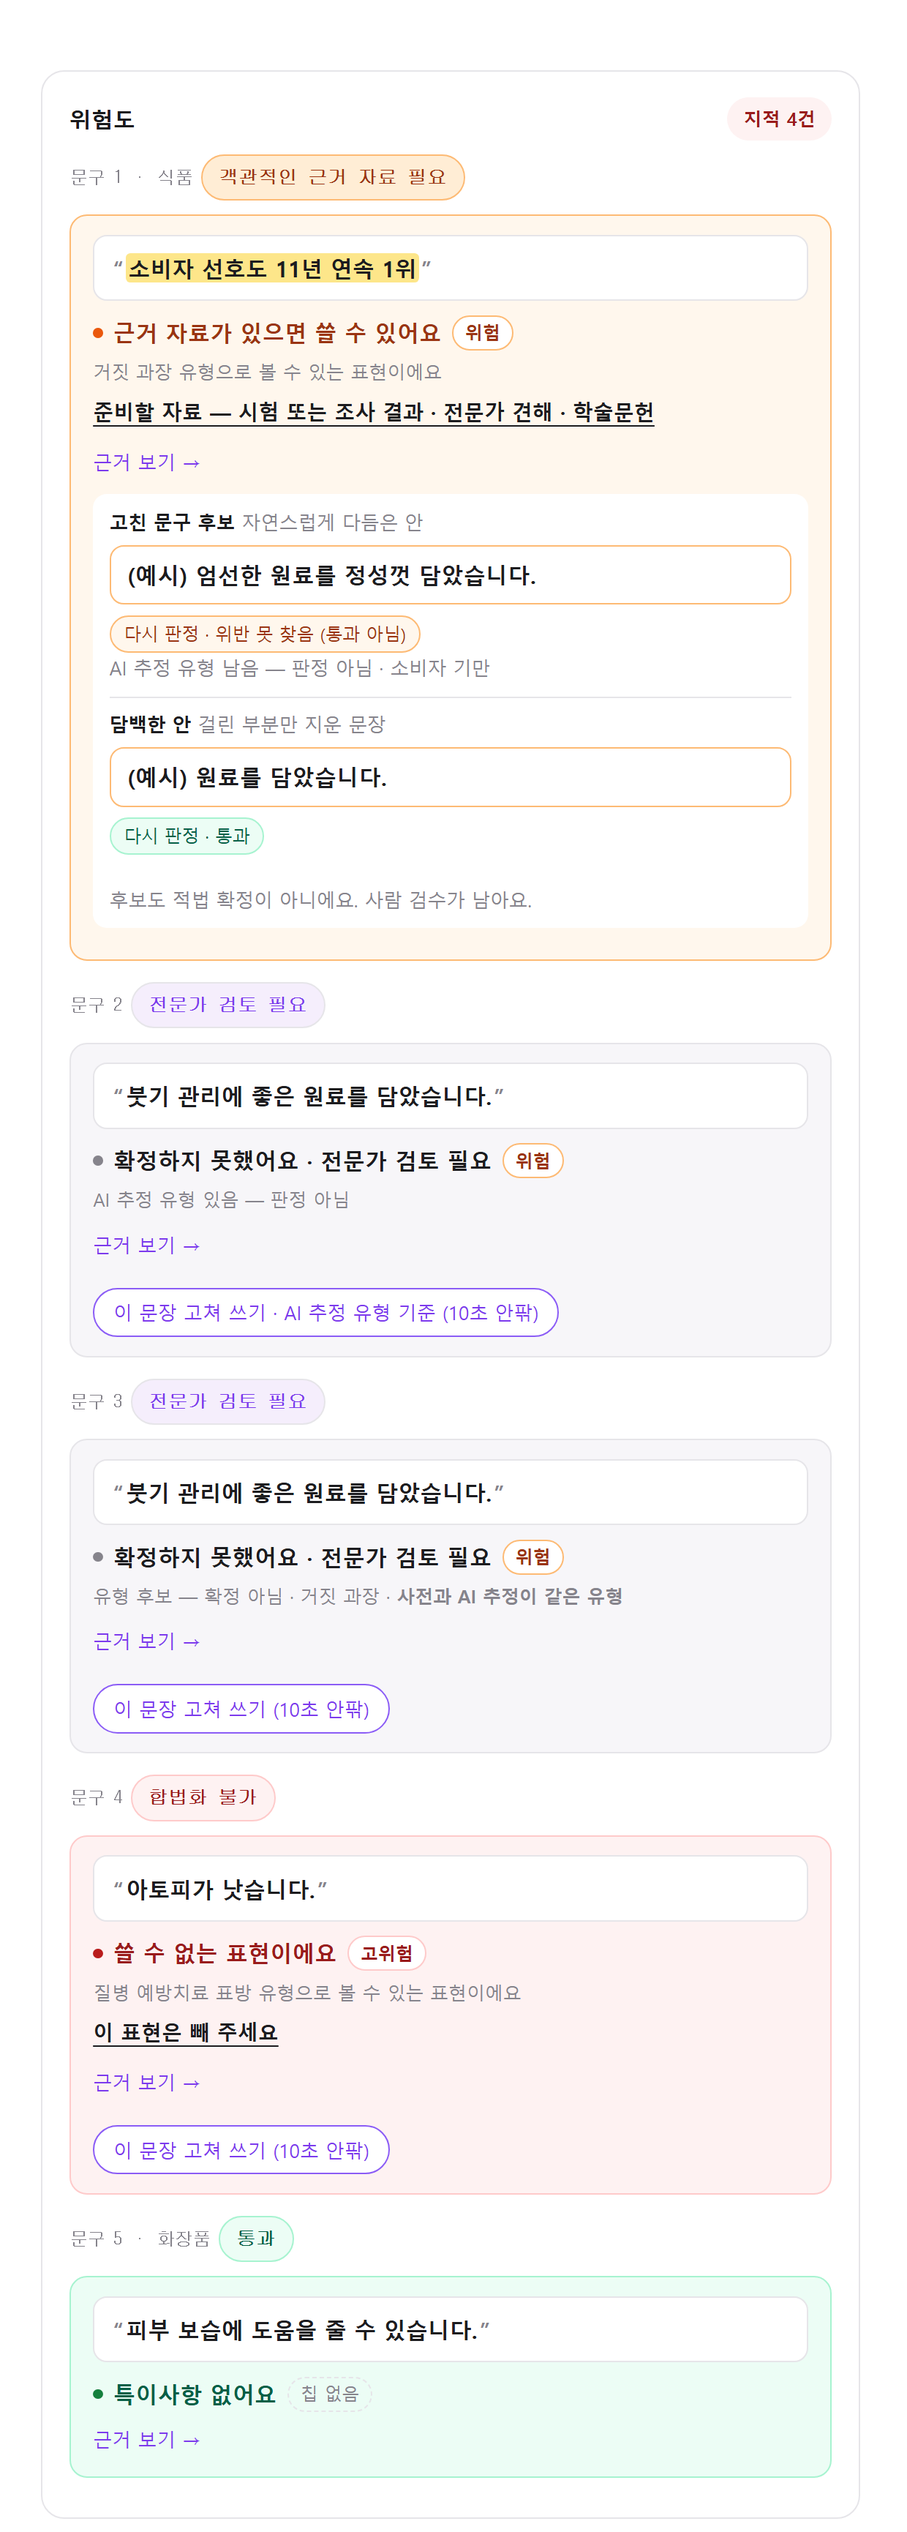
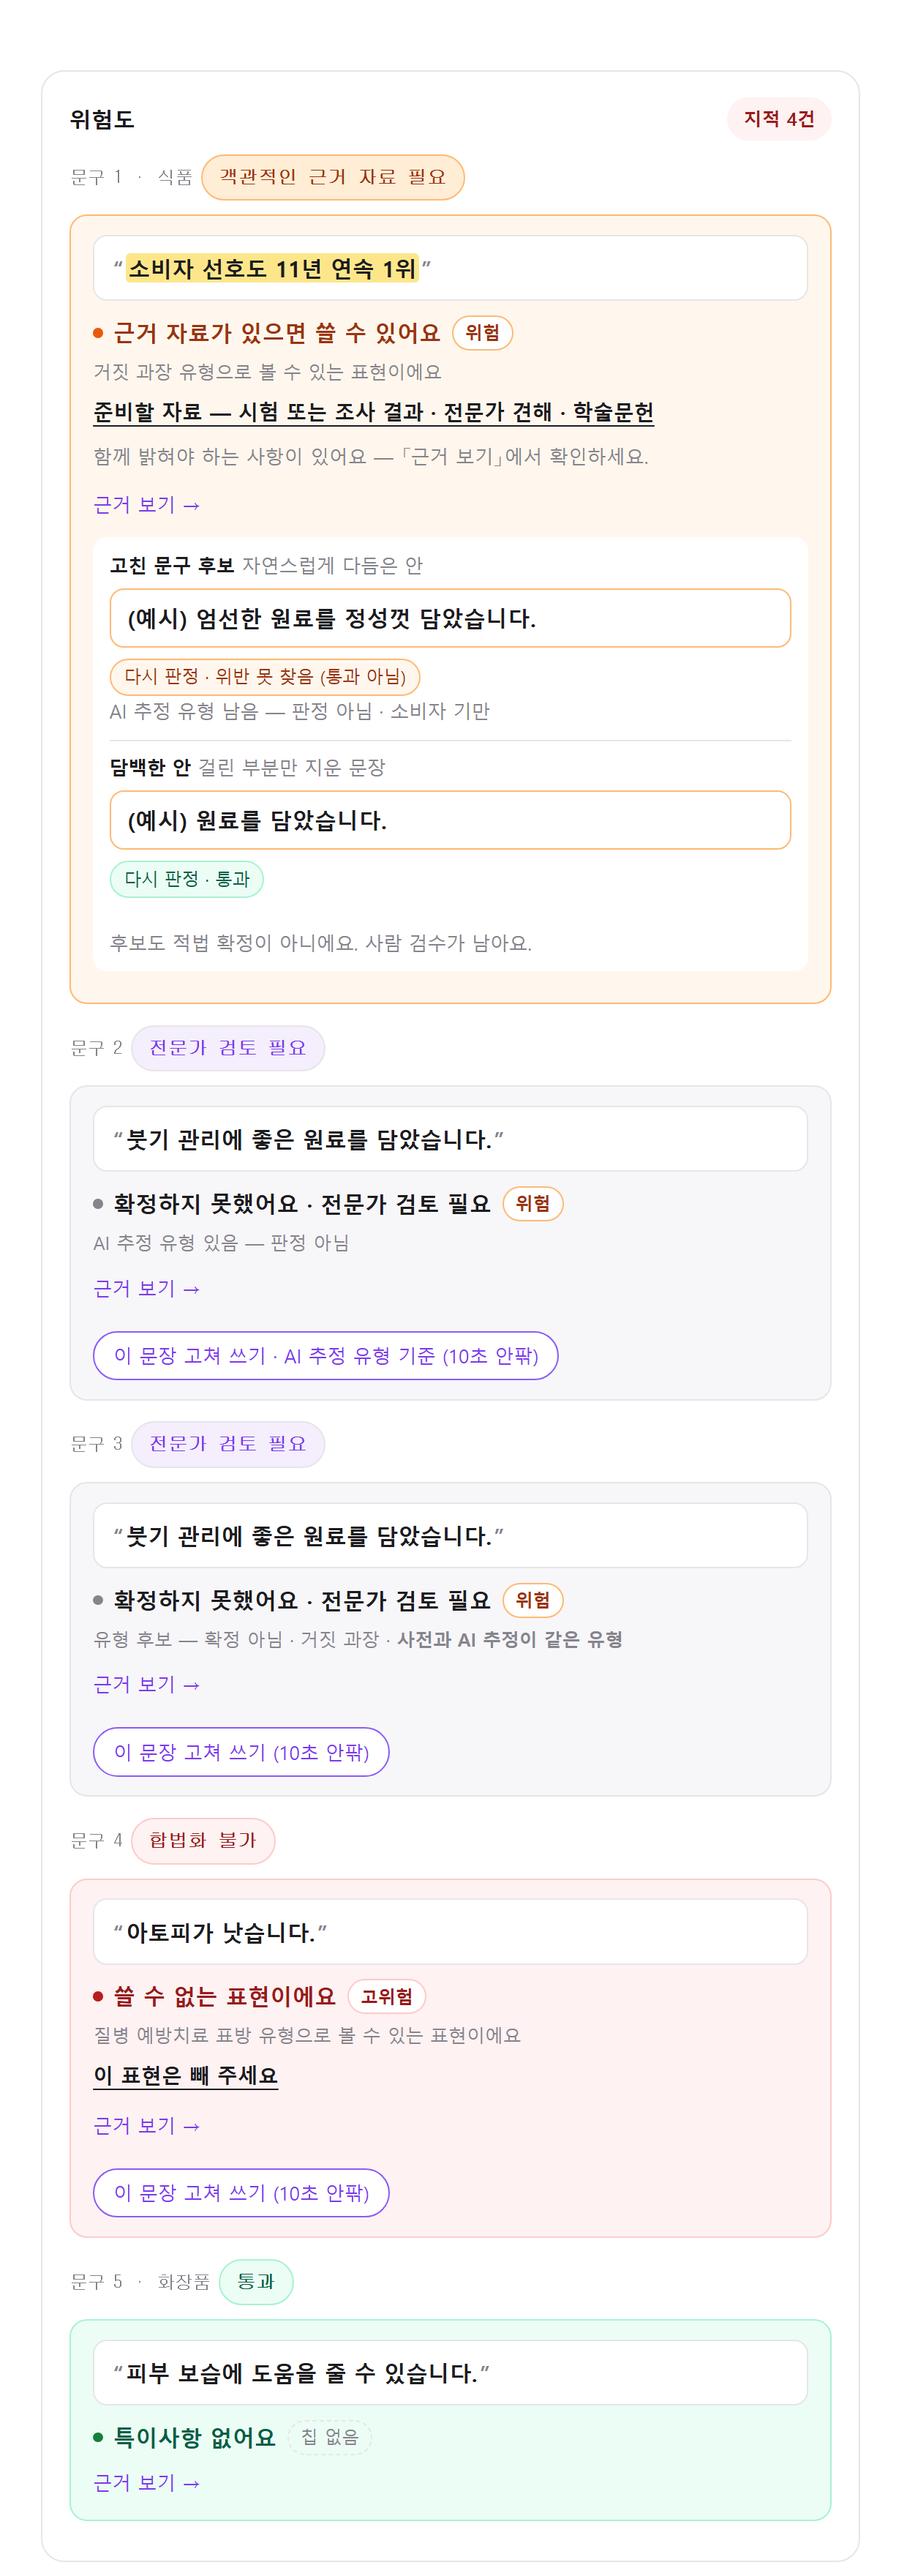
feat(ksr): 실증 분기가 있는 문장에 「함께 밝혀야 하는 사항」 안내 한 줄 · 변경 내용 문서 갱신
「고치는 방향」 문안은 근거 보기 안에 승인본 그대로 두고, 겉에는 조건이 더 있다는 사실만 알린다(D-337 — 할 일 줄만 보이면 자료만 있으면 풀린다로 읽힌다). 문서에 세 안과 고른 까닭 · 팀장 판정이 필요한 항목(보류 결론 문구 D-330 ⬜ · AGREED_MARK 기록) · 전후 캡처를 승인 문안으로 다시 찍음

diff --git a/app/templates/user/review.html b/app/templates/user/review.html
@@ -433,6 +433,12 @@
           {%- else %}{{ "표시한 부분을 고쳐 주세요" if shown.mark else "이 표현을 고쳐 주세요" }}{% endif -%}
         </p>
         {% endif %}
+        {# 🔄 2026-10-14 (ksr) — 「고치는 방향」(실증 분기 · D-337)의 문안은 「근거 보기」 안에 승인본 그대로 둔다 (D-147).
+           겉에는 **조건이 더 있다는 사실만** 한 줄로 알린다 — 할 일 줄만 보이면 「자료만 있으면 풀린다」로 읽힌다(D-337 (가) 를 기각한 이유).
+           ⛔ 이 줄에 조건의 내용을 풀어 쓰지 않는다 — 기준 문안이 아니다 #}
+        {% if s.substantiation %}
+        <p class="rv-why">함께 밝혀야 하는 사항이 있어요 — 「근거 보기」에서 확인하세요.</p>
+        {% endif %}
 
         {% if flag or s.violations or s.evidence or s.encoder_candidates or enc_on or s.substantiation %}
         <details class="rv-more">

diff --git a/docs/ksr/검수카드_변경내용_ksr_2026-10-14.md b/docs/ksr/검수카드_변경내용_ksr_2026-10-14.md
@@ -4,13 +4,13 @@
 오한빈 님이 부탁한 표지 셋(`app/reasons.py`)의 문안 · 자리 다듬기도 여기에 들어 있다.
 
 - **판정은 바뀌지 않는다.** 같은 판정 값을 다른 순서 · 다른 말로 그릴 뿐이다.
-- **상태** — 코드 반영 · 전체 테스트 통과(2541 passed · 5 skipped · 6 xfailed). 커밋 · 푸시 전이다.
+- **상태** — 코드 반영 · 전체 테스트 통과(2541 passed · 5 skipped · 6 xfailed) · ksr 에 올렸다. 팀장 판정은 받지 않았다.
 - **확인받을 곳** — 맨 아래 「확인이 필요한 것」.
 
 ## 전 / 후
 
 같은 판정 다섯 개를 변경 전 코드(ksr @826f1be)와 변경 후 코드로 각각 그린 실제 화면이다.
-판정은 골든 픽스처이고, 인코더 후보와 고쳐 쓰기 결과(「(예시)」 문장 · 모델 이름 · 시간)는 화면을 띄우려고 얹은 가짜 값이다.
+판정은 골든 픽스처이고, 인코더 후보와 고쳐 쓰기 결과(「(예시)」 문장 · 모델 이름 · 시간)는 화면을 띄우려고 얹은 가짜 값이다. 「고치는 방향」 문안은 식품표시광고법 승인본(`SUBST_TEXT`)을 넣었다.
 
 | 변경 전 | 변경 후 |
 |---|---|
@@ -24,13 +24,28 @@
 |---|---|---|---|
 | 1 | 결론이 카드 머리의 짧은 딱지였다(「객관적인 근거 자료 필요」 · 「사용 불가」 · 「보류 · 확신 부족」). 같은 뜻의 회색 설명 줄이 문장 아래에 한 번 더 나왔다. | 같은 말이 두세 번 나왔고, 딱지만 보고는 「써도 되는지」가 읽히지 않았다. | 결론을 문장 **아래**의 풀어 쓴 한 줄로 옮기고 글씨를 키웠다(「근거 자료가 있으면 쓸 수 있어요」 · 「쓸 수 없는 표현이에요」 · 「확정하지 못했어요 · 전문가 검토 필요」). 겹치던 회색 설명 줄은 없앴다. |
 | 2 | 「걸린 유형 · 거짓 과장」이 「고치는 방향」 뒤에 작게 나왔다. | 「뭐가 문제 → 왜 → 어떻게」 순서가 거꾸로였다. | 결론 바로 밑으로 올리고 문장으로 적는다(「거짓 과장 유형으로 볼 수 있는 표현이에요」). 보류 문장은 종전대로 「유형 후보 — 확정 아님 · …」이다. |
-| 3 | 「고치는 방향」이 흰 상자 안의 긴 문단으로 겉에 나왔다. | 이용자가 할 일이 법 문장 같은 문단에 묻혀 있었다. | 겉에는 할 일 한 줄만 둔다 — 굵은 글씨 + 밑줄, 바탕 없음(「준비할 자료 — 시험 또는 조사 결과 · …」 · 「이 표현은 빼 주세요」). 「고치는 방향」 문단 · 인정되는 실증 자료 · 「실증하면 위험도 … 까지」는 글자 그대로 「근거 보기」 안으로 옮겼다. |
+| 3 | 「고치는 방향」이 흰 상자 안의 긴 문단으로 겉에 나왔다. | 이용자가 할 일이 법 문장 같은 문단에 묻혀 있었다. | 겉에는 할 일 한 줄을 둔다 — 굵은 글씨 + 밑줄, 바탕 없음(「준비할 자료 — 시험 또는 조사 결과 · …」 · 「이 표현은 빼 주세요」). 「고치는 방향」 문단 · 인정되는 실증 자료 · 「실증하면 위험도 … 까지」는 글자 그대로 「근거 보기」 안 맨 위로 옮겼다. 실증 분기가 있는 문장은 할 일 줄 아래에 회색 한 줄 「함께 밝혀야 하는 사항이 있어요 — 「근거 보기」에서 확인하세요.」를 단다(아래 「고치는 방향을 접은 것」). |
 | 4 | 고쳐 쓴 문장이 주변 설명과 같은 크기의 글씨였다. | 후보 문장이 눈에 띄지 않았다. | 테두리 상자 + 굵은 글씨로 그린다. 다듬은 안과 담백한 안이 같은 상자이고 둘 사이에 가는 선을 둔다. |
 | 5 | 알약 색이 결과마다 따로였다(위반 못 찾음 = 연보라 · 위반 의심 = 빨강 · 그 밖은 테두리만). | 한 카드 안에 색이 여러 계열로 섞였다. | 알약과 후보 테두리가 **카드 색**을 따른다(주황 카드 = 주황 · 빨강 카드 = 빨강 · 보류 카드 = 보라). 「통과」만 초록으로 둔다. 알약의 「재판정」은 「다시 판정」으로 적는다. |
 | 6 | 「AI 추정 유형 남음 — 판정 아님」이 붉은 알약이었다. | 판정이 아닌 추정인데 위반 의심과 같은 붉은색이었다. | 알약 없이 회색 한 줄로 적는다. 문안은 그대로다. |
 | 7 | 문장 번호(`s0`) · 모델 이름 · 걸린 시간 · 경고 그림문자가 겉에 나왔다. | 이용자에게 뜻이 없는 내부 정보다. | 겉에서 뺐다. 모델 이름과 걸린 시간은 주의 문구의 `title`(마우스를 올리면 보임)에 남겼다. |
 | 8 | 「사전과 AI 추정이 같은 유형 — 확정 아님」 — 같은 줄 머리가 이미 「유형 후보 — 확정 아님」이라 「확정 아님」이 두 번 나왔다. | 중복이다. 이 표지는 보류 문장의 유형 줄에만 붙는다. | 표지 문안에서 뒤의 「— 확정 아님」을 뺐다(`AGREED_MARK`). |
 | 9 | 「AI 추정 유형 있음 — 판정 아님」 겉 표지(회색 글씨 · 「근거 보기」 앞). | — | **그대로 둔다.** 문안 · 모양 · 자리가 같고, 겉에 유형 이름 · 확률을 쓰지 않는다. 「이 문장 고쳐 쓰기 · AI 추정 유형 기준」 버튼도 그대로 뜬다. 알약으로 바꾸는 안은 보라색 버튼 · 링크와 겹쳐 버렸다. |
+
+## 「고치는 방향」을 접은 것 (D-337 과의 관계)
+
+D-337 은 실증 분기를 문장 카드의 「고치는 방향」으로 보인다고 정했고, 그 문안에 「순위 · 함량 · 연구 인용처럼 함께 밝힐 것」 꼬리를 넣었다 — 「자료만 있으면 풀린다」고 잘못 말하지 않으려는 것이다.
+문단을 통째로 접으면 겉의 할 일 줄(「준비할 자료 — …」)이 바로 그 말로 읽힌다. 그래서 세 안을 놓고 (2)를 골랐다.
+
+| 안 | 내용 | 고르지 않은 까닭 |
+|---|---|---|
+| (1) | 문단을 접기만 한다 | 조건이 더 있다는 것을 펼치기 전에는 알 수 없다. |
+| **(2) ★** | 겉에 「함께 밝혀야 하는 사항이 있어요 — 「근거 보기」에서 확인하세요.」 한 줄 · 문안은 접힌 칸 안에 승인본 그대로 | — |
+| (3) | 문단을 겉에 그대로 둔다(상자만 뺀다) | 줄이려던 문단이 그대로 돌아오고 자료 종류가 두 번 나온다. |
+
+겉의 한 줄은 조건이 더 있다는 사실만 알린다. 조건의 내용은 풀어 쓰지 않는다 — 기준 문안이 아니다 (D-147).
+
+![접은 모습과 펼친 모습](검수카드_고치는방향_전후_ksr_2026-10-14.png)
 
 ## 그대로 둔 것
 
@@ -66,7 +81,7 @@
 
 | 누구 | 무엇 |
 |---|---|
-| 오한빈 | ① 결론 문구를 풀어 쓴 것 — 10-01 에 확정한 판정 문구(「객관적인 근거 자료 필요」 등)는 종착 알약 · 이력 배지에 남고 문장 카드에서만 바뀐다. ② 「고치는 방향」을 「근거 보기」 안으로 옮긴 것(글자는 그대로). ③ `AGREED_MARK` 에서 「확정 아님」을 뺀 것(D-330 보충 3). ④ 고쳐 쓴 뒤의 「AI 추정 유형 남음」에는 유형 이름이 붙는데 겉 표지에는 붙지 않는다 — 의도인지. |
+| 오한빈 (팀장 판정) | ① 결론 문구를 풀어 쓴 것 — 종전 문구(「객관적인 근거 자료 필요」 등 · D-330 결정 4)는 종착 알약 · 이력 배지에 남고 문장 카드에서만 바뀐다. 🔴 그중 **보류 문장의 결론**(「보류 · 확신 부족」 → 「확정하지 못했어요 · 전문가 검토 필요」)은 D-330 ⬜ 「사전에 안 걸린 보류의 배지(D-269)는 판정 대상」에 걸린다 — 코드에는 들어가 있고 판정은 받지 않았다. ② 「고치는 방향」을 「근거 보기」 안으로 옮기고 겉에 안내 한 줄을 둔 것(D-337 결정 4 · 위 (2) 안). ③ `AGREED_MARK` 에서 「확정 아님」을 뺀 것 — 결정 기록(D-330 보충 3)의 문안에는 「— 확정 아님」이 그대로 적혀 있다. 받아들이면 기록을 맞춰야 한다. ④ 고쳐 쓴 뒤의 「AI 추정 유형 남음」에는 유형 이름이 붙는데 겉 표지에는 붙지 않는다 — 의도인지. |
 | 이서은 | `_review_rewrite.html` 의 모양 변경(후보 상자 · 알약 색 · 「다시 판정」 · 모델과 시간을 겉에서 뺌). 분기와 판정은 건드리지 않았다. |
 
 ## 검증
